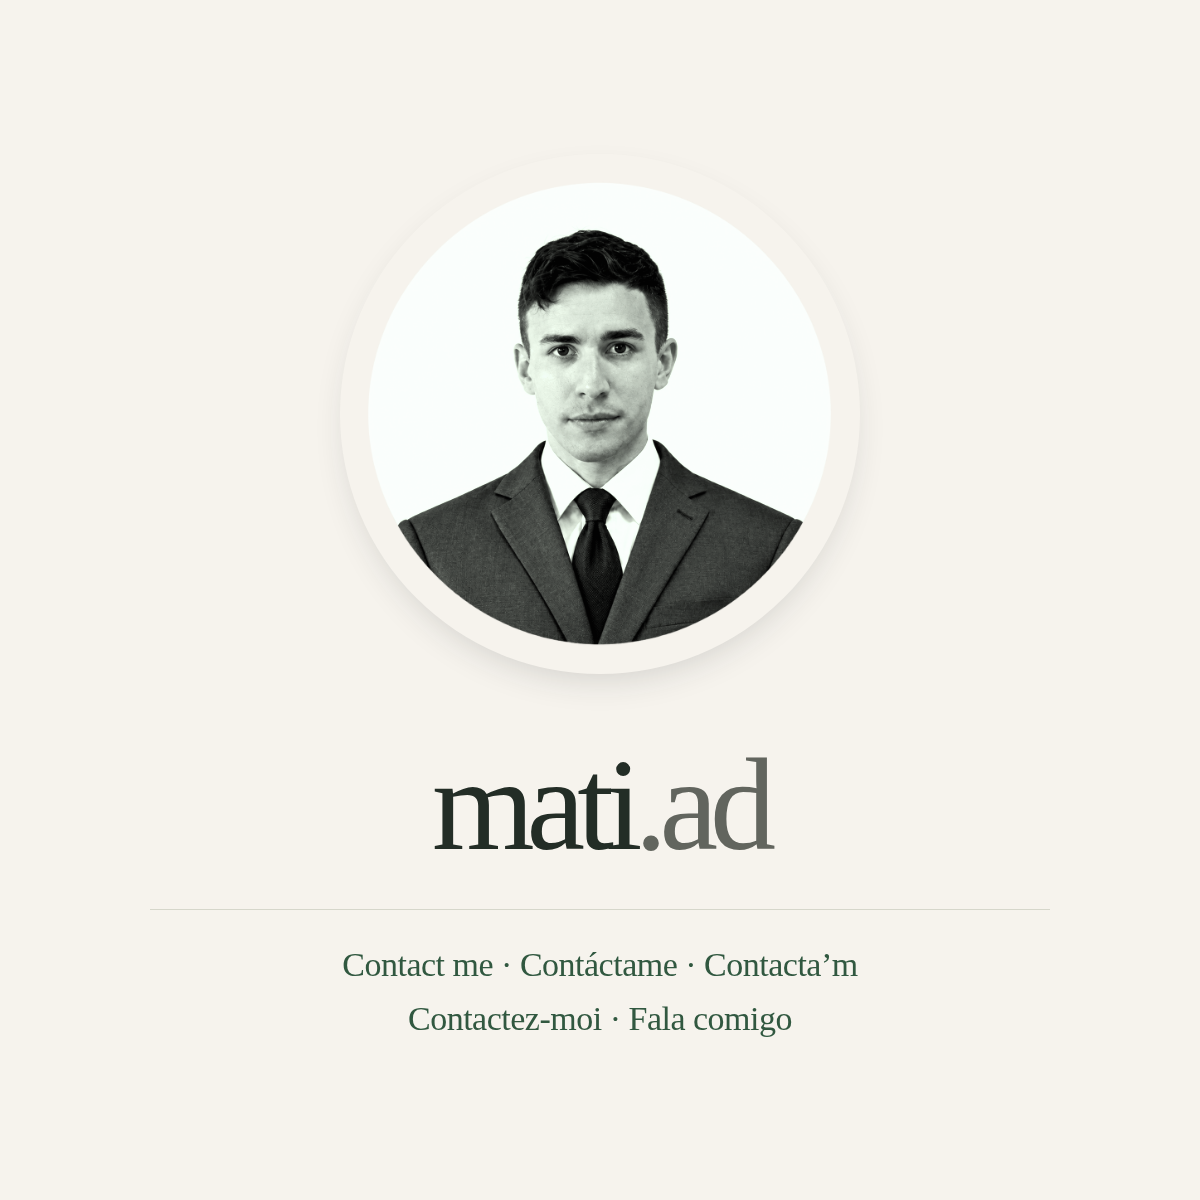
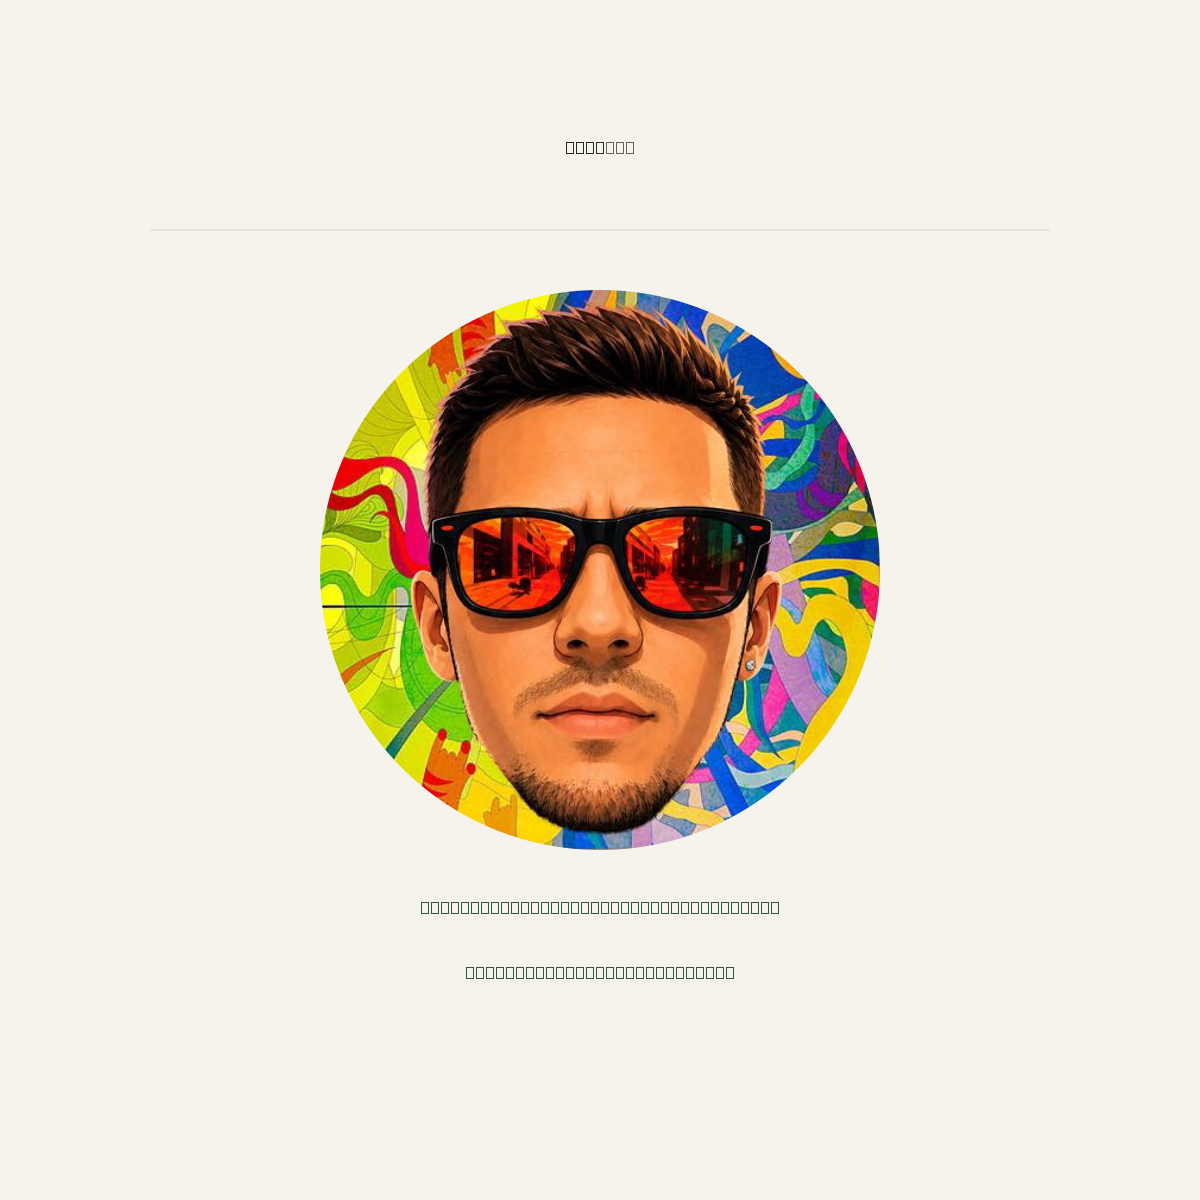
Replace portrait and social preview

Changed region(s): [[0.2467, 0.185, 0.74, 0.7092], [0.2775, 0.8017, 0.7092, 0.8633], [0.37, 0.74, 0.6475, 0.7708]]

diff --git a/index.html b/index.html
@@ -18,7 +18,7 @@
       "@id": "https://mati.ad/#mati",
       "name": "Mati",
       "url": "https://mati.ad/",
-      "image": "https://mati.ad/images/mati.png"
+      "image": "https://mati.ad/images/mati.jpg"
     },
     {
       "@type": "ContactPage",
@@ -96,7 +96,7 @@
   <main>
     <header class="identity">
       <h1>mati<span>.ad</span></h1>
-      <img class="portrait" src="/images/mati.png" alt="Mati" width="1254" height="1254" fetchpriority="high">
+      <img class="portrait" src="/images/mati.jpg" alt="Mati" width="1254" height="1254" fetchpriority="high">
     </header>
     <ul>
       <li lang="en"><a href="https://wa.me/376367071?text=Hi%2C%20I%E2%80%99m%20contacting%20you%20from%20mati.ad"><span class="phrase">Contact me</span><span class="language">ENGLISH</span></a></li>
